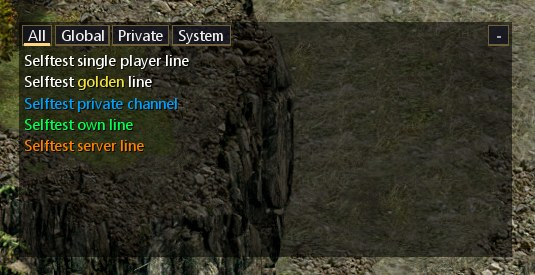
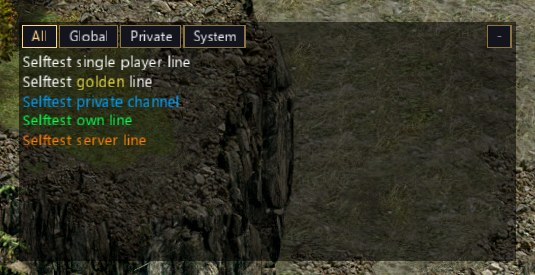
feat(enhanced-chat): RmlUi chat window with the game theme
The window is ui/chat.rml: tab buttons, a scrolling list of coloured lines that sticks to the newest one through element:scroll('end') (needs the Gear build with it), the New-below button and the game's item tooltip on a drop line. The layout editor cannot resize RmlUi panels, so the size is now a setting. The self test passes 34 of 34 in the game.

diff --git a/docs/mods/enhanced-chat.md b/docs/mods/enhanced-chat.md
@@ -21,8 +21,8 @@ game's own notes and your own lines. Chat is still typed with the game's own cha
   item's label colour: white, blue (magic), yellow (rare), gold (unique), green (set). Rest the cursor on such a line to
   see the item's tooltip while the item still lies there.
 - **-** beside the tabs folds the window to its tab row; **+** opens it again.
-- **Move and resize** it with the layout editor (hold **Alt**, *Edit layout*): drag it, pull its corner. It scales with
-  the game's UI like every window.
+- **Move** it with the layout editor (hold **Alt**, *Edit layout*): drag it. Its size is set in the mod's settings (*Window
+  width*, *Window height*). It scales with the game's UI like every window.
 
 By default the window shows in network games only: in single player (*Hide in Singleplayer*, on by default) the game
 keeps its own lines at the top. When the window is hidden (in single player, setting *Show the chat window* off, or the
@@ -61,7 +61,7 @@ Sacred Gear with `gear.chat`; an older one leaves the mod idle.
 
 - **Files:** `src/enhanced-chat/mod.lua` (manifest) and `main.lua` (about 370 lines). Nothing is written to disk.
 - **Depends on:** `gear.chat` (the lines, `replace_overlay`, `segments`), `gear.world.items_near` and `item_color`
-  (drops), `gear.mp` (the player filter), `gear.ui` (a bare, resizable panel, a scroll area, `item_tooltip`).
+  (drops), `gear.mp` (the player filter), `gear.ui` (an RmlUi document with the game theme, `element:scroll`, `item_tooltip`).
 - **Other mods:** `gear.emit('enhanced-chat.query', out)` fills `out` with the window's state (for the self test).
 - **Self test:** `src/enhanced-chat_selftest` (with `-gear-auto`, in a copy of the game folder):
 
